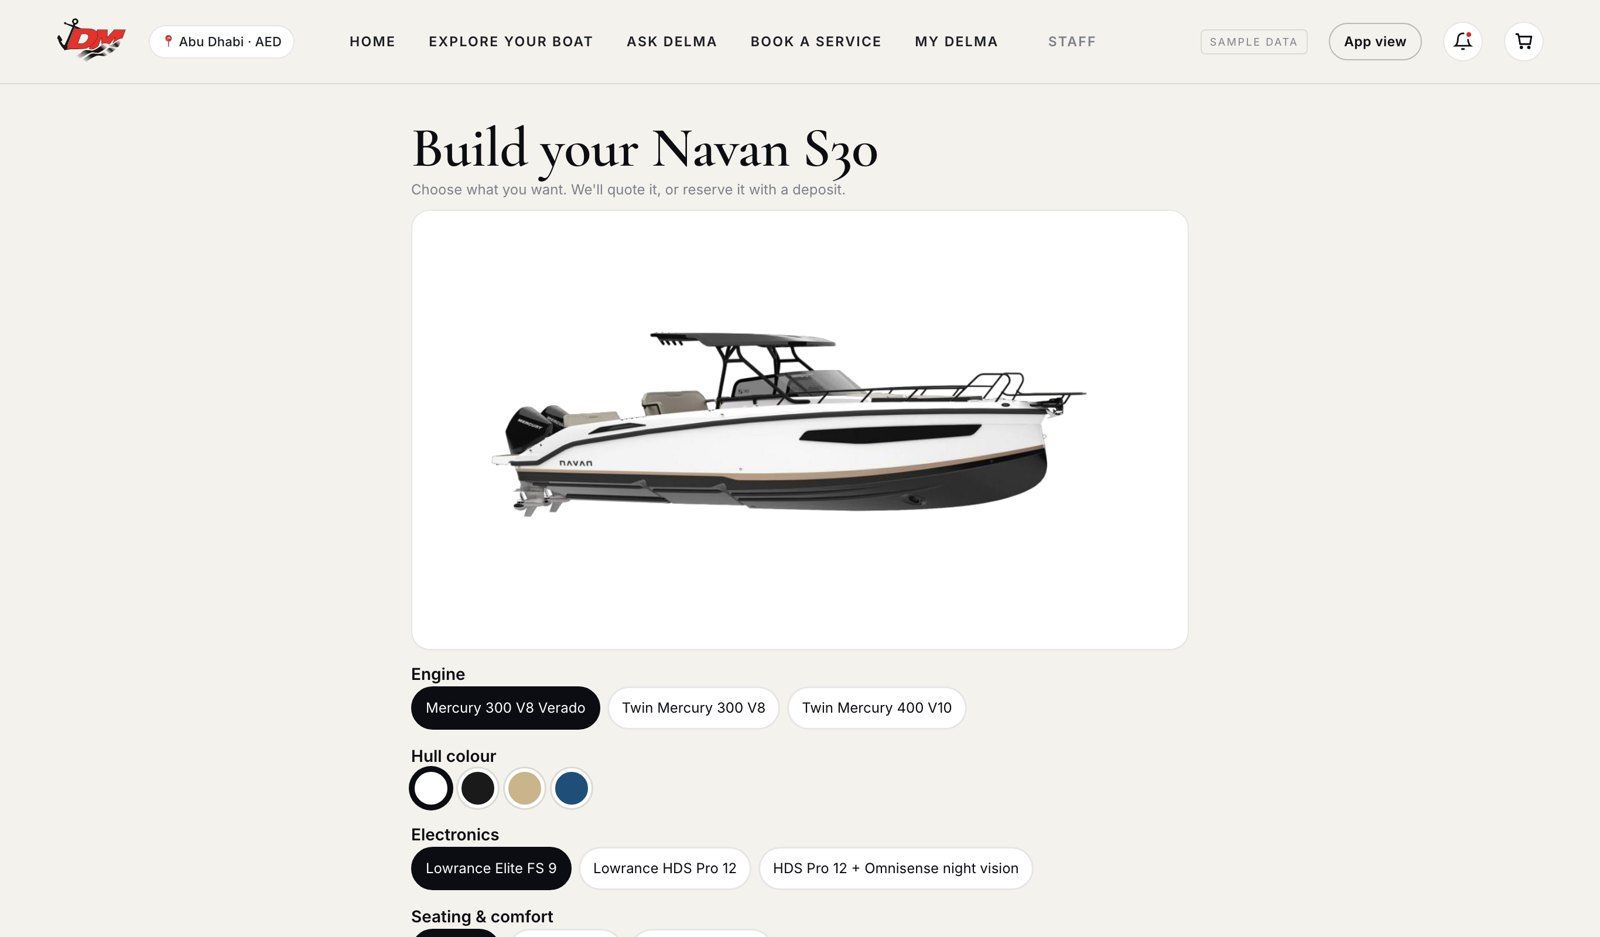
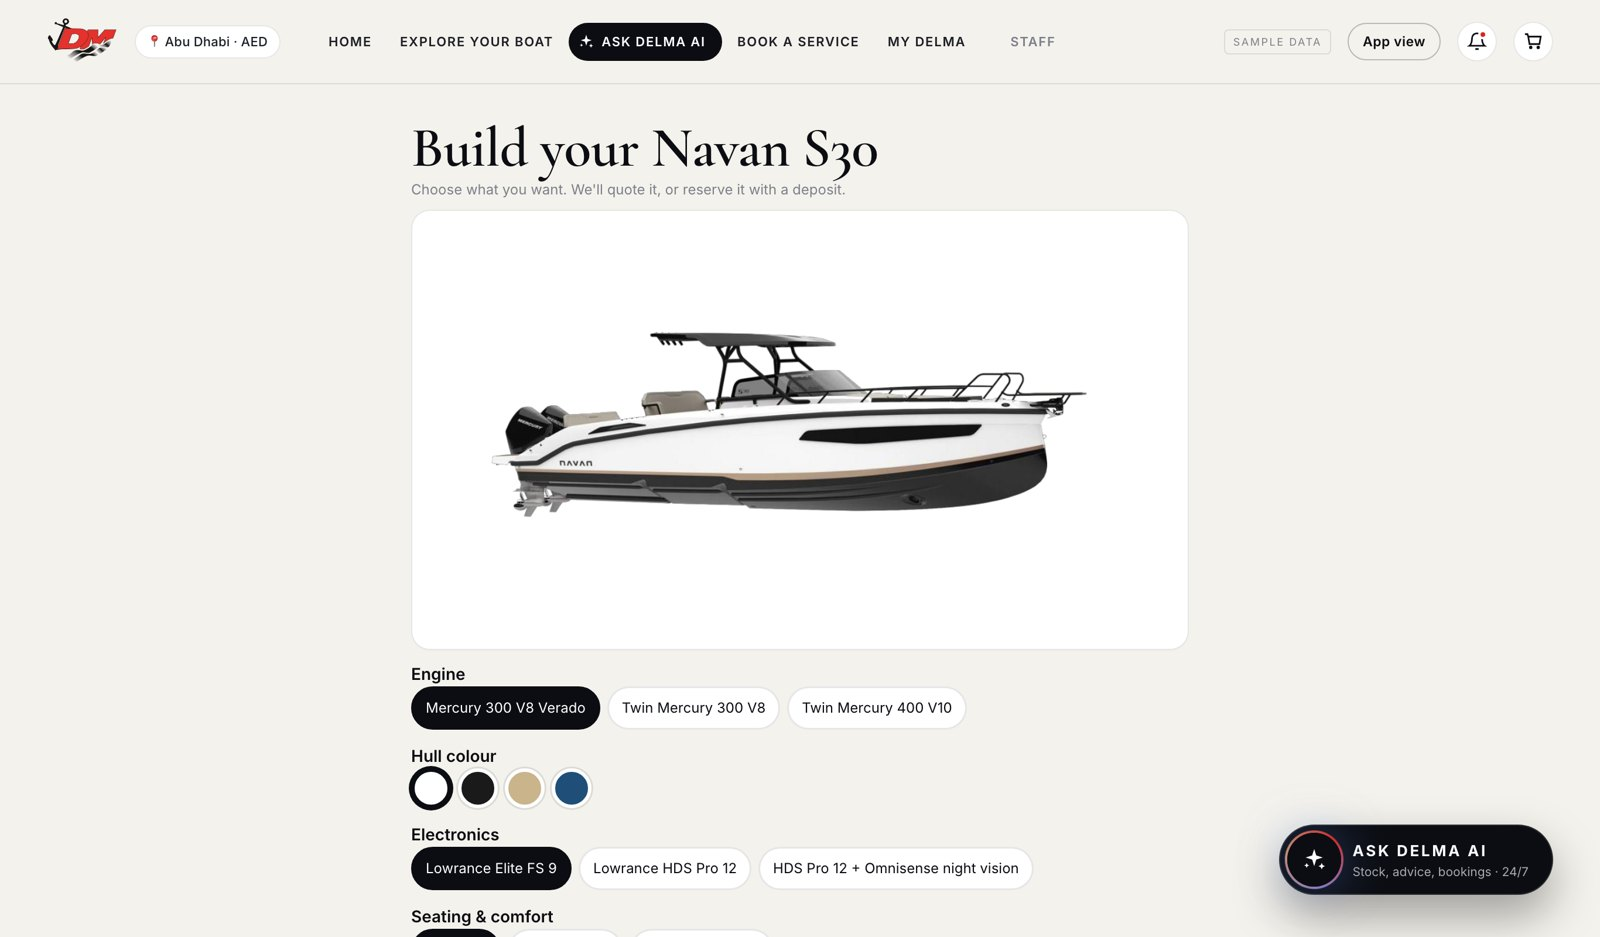
Ask Delma AI: hero ask bar, header pill, floating button

diff --git a/index.html b/index.html
@@ -30,7 +30,7 @@ body{font-family:Inter,system-ui,-apple-system,sans-serif;background:#111216;col
 .ico{width:34px;height:34px;border-radius:50%;display:grid;place-items:center;background:#fff;border:1px solid var(--line);position:relative;cursor:pointer}
 .ico svg{width:17px;height:17px}
 .ico .dot{position:absolute;top:6px;right:7px;width:8px;height:8px;border-radius:50%;background:var(--red);border:2px solid #fff}
-.sample{font-size:9px;letter-spacing:.14em;text-transform:uppercase;color:var(--mut);border:1px solid var(--line);padding:3px 7px;border-radius:4px}
+.sample{font-size:9px;letter-spacing:.14em;text-transform:uppercase;color:var(--mut);border:1px solid var(--line);padding:3px 7px;border-radius:4px;white-space:nowrap}
 /* screens */
 #view{flex:1;overflow:auto;-webkit-overflow-scrolling:touch;position:relative;scroll-behavior:smooth}
 .scr{display:none;padding:14px 14px 90px}
@@ -214,7 +214,7 @@ p{margin-bottom:8px}
  body.desk{display:block;padding:0;background:var(--bg)}
  body.desk #desk{display:none}
  body.desk #frame{max-width:none;height:100vh;border:0;border-radius:0;box-shadow:none}
- body.desk .top{padding:0 48px;height:72px;gap:18px;background:rgba(244,242,236,.85)}
+ body.desk .top{padding:0 40px;height:72px;gap:14px;background:rgba(244,242,236,.85)}
  body.desk .top img{height:40px}
  body.desk .hnav{display:flex;gap:2px;margin-left:16px}
  body.desk .nav{display:none}
@@ -258,8 +258,33 @@ p{margin-bottom:8px}
  body.desk .brands{gap:10px 26px}
  body.desk .brands span{font-size:18px}
 }
+/* AI entry points */
+@keyframes spin{to{transform:rotate(360deg)}}
+@keyframes glow{0%,100%{box-shadow:0 0 0 0 rgba(215,38,30,.35),0 0 40px rgba(110,155,255,.35)}50%{box-shadow:0 0 0 10px rgba(215,38,30,0),0 0 60px rgba(110,155,255,.55)}}
+.orb{position:relative;width:46px;height:46px;border-radius:50%;background:#0B0D12;display:grid;place-items:center;flex-shrink:0;animation:glow 3s ease-in-out infinite}
+.orb::before{content:"";position:absolute;inset:-2px;border-radius:50%;background:conic-gradient(from 0deg,#D7261E,#6E9BFF,#C9B88A,#D7261E);animation:spin 4s linear infinite;z-index:-1}
+.orb::after{content:"";position:absolute;inset:0;border-radius:50%;background:#0B0D12}
+.orb svg{width:22px;height:22px;position:relative;z-index:1;fill:#fff}
+.orb.sm{width:34px;height:34px;animation:none}.orb.sm svg{width:17px;height:17px}
+.aibar{display:flex;align-items:center;gap:12px;background:rgba(255,255,255,.14);backdrop-filter:blur(14px);border:1px solid rgba(255,255,255,.35);border-radius:999px;padding:8px 8px 8px 10px;cursor:pointer;margin-top:6px;max-width:560px;transition:.2s}
+.aibar:hover{background:rgba(255,255,255,.22)}
+.aibar .q{flex:1;min-width:0}
+.aibar .q b{display:block;font-size:10.5px;letter-spacing:.2em;text-transform:uppercase;color:#fff}
+.aibar .q span{display:block;font-size:13px;color:rgba(255,255,255,.85);white-space:nowrap;overflow:hidden;text-overflow:ellipsis;font-style:italic;font-family:'Cormorant Garamond',serif;font-size:16px}
+.aibar .go{width:36px;height:36px;border-radius:50%;background:#fff;color:var(--ink);display:grid;place-items:center;flex-shrink:0}
+.aibar .go svg{width:16px;height:16px}
+.aifab{position:absolute;right:14px;bottom:76px;z-index:18;display:flex;align-items:center;gap:10px;background:var(--ink);color:#fff;border-radius:999px;padding:5px 16px 5px 5px;cursor:pointer;box-shadow:0 18px 40px rgba(0,0,0,.35);border:1px solid rgba(255,255,255,.12)}
+.aifab b{font-size:12px;letter-spacing:.14em;text-transform:uppercase}
+.aifab small{display:block;font-size:10.5px;color:rgba(255,255,255,.65);letter-spacing:0;text-transform:none}
+.aifab.hide{display:none}
+body.desk .aifab{right:40px;bottom:36px;padding:6px 20px 6px 6px}
+body.desk .aifab b{font-size:13px}
+body.desk .aibar{max-width:640px;padding:10px 10px 10px 12px;margin-top:10px}
+body.desk .aibar .q span{font-size:19px}
+.hnav .ai{display:inline-flex;align-items:center;gap:6px;background:var(--ink);color:#fff!important;border-radius:999px;padding:7px 14px 7px 8px}
+.hnav .ai svg{width:14px;height:14px;fill:#fff}
 .hnav{display:none}
-.hnav span{padding:8px 13px;border-radius:999px;font-weight:600;font-size:11.5px;cursor:pointer;color:var(--ink2);letter-spacing:.1em;text-transform:uppercase}
+.hnav span{padding:8px 11px;border-radius:999px;font-weight:600;font-size:11px;cursor:pointer;color:var(--ink2);letter-spacing:.08em;text-transform:uppercase;white-space:nowrap}
 .hnav span.on{color:var(--red)}
 .viewtog{display:none}@media(min-width:900px){body.desk .viewtog{display:inline-flex}}
 </style>
@@ -276,7 +301,7 @@ p{margin-bottom:8px}
 <div class="top">
   <img src="assets/logo.png" alt="Delma Marine">
   <span class="pill" id="regionpill" onclick="toggleRegion()">📍 Abu Dhabi · AED</span>
-  <div class="hnav" id="hnav"><span data-s="home" onclick="go('home')">Home</span><span data-s="explore" onclick="go('explore')">Explore your boat</span><span data-s="ask" onclick="go('ask')">Ask Delma</span><span data-s="book" onclick="go('book')">Book a service</span><span data-s="mydelma" onclick="go('mydelma')">My Delma</span><span data-s="staff" onclick="go('staff')" style="margin-left:14px;color:var(--mut)">Staff</span></div><span class="sp"></span><span class="sample">Sample data</span><button class="btn s o viewtog" onclick="toggleView()" id="vtog">App view</button>
+  <div class="hnav" id="hnav"><span data-s="home" onclick="go('home')">Home</span><span data-s="explore" onclick="go('explore')">Explore your boat</span><span data-s="ask" class="ai" onclick="go('ask')"><svg viewBox="0 0 24 24"><path d="M12 2l1.9 6.1L20 10l-6.1 1.9L12 18l-1.9-6.1L4 10l6.1-1.9zM19 15l.9 2.1L22 18l-2.1.9L19 21l-.9-2.1L16 18l2.1-.9zM5 15l.7 1.6L7.3 17.3l-1.6.7L5 19.6l-.7-1.6L2.7 17.3l1.6-.7z"/></svg>Ask Delma AI</span><span data-s="book" onclick="go('book')">Book a service</span><span data-s="mydelma" onclick="go('mydelma')">My Delma</span><span data-s="staff" onclick="go('staff')" style="margin-left:14px;color:var(--mut)">Staff</span></div><span class="sp"></span><span class="sample">Sample data</span><button class="btn s o viewtog" onclick="toggleView()" id="vtog">App view</button>
   <div class="ico" onclick="go('offers')"><svg viewBox="0 0 24 24" fill="none" stroke="currentColor" stroke-width="2"><path d="M6 8a6 6 0 0112 0c0 7 3 9 3 9H3s3-2 3-9M10 21h4"/></svg><i class="dot"></i></div>
   <div class="ico" onclick="go('basket')"><svg viewBox="0 0 24 24" fill="none" stroke="currentColor" stroke-width="2"><path d="M6 6h15l-1.5 9h-12zM6 6L5 3H2M9 20a1 1 0 100-2 1 1 0 000 2zM18 20a1 1 0 100-2 1 1 0 000 2z"/></svg><i class="dot" id="bdot" style="display:none"></i></div>
 </div>
@@ -289,7 +314,8 @@ p{margin-bottom:8px}
     <div class="eyebrow">Delma Marine · Abu Dhabi · since 1978</div>
     <h1>The water<br>is <em>waiting.</em></h1>
     <p>Boats, engines and everything that belongs on board, chosen for the way you use the sea.</p>
-    <div class="row" style="flex-wrap:wrap"><button class="btn p" onclick="go('explore')">Explore your boat</button><button class="btn g" onclick="go('ask')">Ask Delma</button></div>
+    <div class="row" style="flex-wrap:wrap"><button class="btn p" onclick="go('explore')">Explore your boat</button><button class="btn g" onclick="go('book')">Book a service</button></div>
+    <div class="aibar" onclick="go('ask')"><div class="orb"><svg viewBox="0 0 24 24"><path d="M12 2l1.9 6.1L20 10l-6.1 1.9L12 18l-1.9-6.1L4 10l6.1-1.9zM19 15l.9 2.1L22 18l-2.1.9L19 21l-.9-2.1L16 18l2.1-.9zM5 15l.7 1.6L7.3 17.3l-1.6.7L5 19.6l-.7-1.6L2.7 17.3l1.6-.7z"/></svg></div><div class="q"><b>Ask Delma AI</b><span>"I have a 7 m boat and want to fish at night. What do I need?"</span></div><div class="go"><svg viewBox="0 0 24 24" fill="none" stroke="currentColor" stroke-width="2.2" stroke-linecap="round" stroke-linejoin="round"><path d="M5 12h14M13 6l6 6-6 6"/></svg></div></div>
   </div>
 
   <div class="eyebrow">Find your craft</div>
@@ -323,8 +349,8 @@ p{margin-bottom:8px}
 
   <div class="split" style="margin-top:22px">
     <div class="ph" style="background-image:url(assets/photos/helm.jpg)"></div>
-    <div><div class="eyebrow">Ask Delma</div><h2 style="margin-top:4px">Advice from the people who fit it.</h2><p class="sm mut">Tell Delma what you want to do and it puts the right boat, engine and kit together, from real stock, with a delivery date when something is on order.</p>
-      <div class="card" style="margin-top:10px"><div class="m u" style="max-width:100%;margin-bottom:8px">I have a Bayliner VR5 and want to use it for night fishing. What do I need?</div><div class="m a" style="max-width:100%">Three things: a Lowrance Elite FS 9 (in stock, Umm Al Nar), Hella deck and navigation lights, and a night-vision camera if you go far out. Shall I put them in your basket?</div><button class="btn k s" style="margin-top:10px" onclick="go('ask')">Ask Delma</button></div></div>
+    <div><div class="row"><div class="orb sm"><svg viewBox="0 0 24 24"><path d="M12 2l1.9 6.1L20 10l-6.1 1.9L12 18l-1.9-6.1L4 10l6.1-1.9zM19 15l.9 2.1L22 18l-2.1.9L19 21l-.9-2.1L16 18l2.1-.9zM5 15l.7 1.6L7.3 17.3l-1.6.7L5 19.6l-.7-1.6L2.7 17.3l1.6-.7z"/></svg></div><div class="eyebrow">Delma AI · your personal advisor</div></div><h2 style="margin-top:8px">Ask anything. Get the right setup, from real stock.</h2><p class="sm mut">Tell Delma what you want to do and it puts the right boat, engine and kit together, from real stock, with a delivery date when something is on order.</p>
+      <div class="card" style="margin-top:10px"><div class="m u" style="max-width:100%;margin-bottom:8px">I have a Bayliner VR5 and want to use it for night fishing. What do I need?</div><div class="m a" style="max-width:100%">Three things: a Lowrance Elite FS 9 (in stock, Umm Al Nar), Hella deck and navigation lights, and a night-vision camera if you go far out. Shall I put them in your basket?</div><button class="btn k s" style="margin-top:10px" onclick="go('ask')">Ask Delma AI</button></div></div>
   </div>
 
   <div class="hgrid"><div>
@@ -386,7 +412,7 @@ p{margin-bottom:8px}
 
 <!-- ASK -->
 <section class="scr narrow" id="s-ask">
-  <div class="row" style="margin-bottom:8px"><div style="width:38px;height:38px;border-radius:50%;background:var(--ink);display:grid;place-items:center"><img src="assets/logo.png" style="height:20px;filter:brightness(0) invert(1)"></div><div><b class="serif" style="font-size:18px">Delma</b><div class="xs mut">Replies in seconds · answers from Delma's own stock and prices</div></div></div>
+  <div class="row" style="margin-bottom:8px"><div class="orb"><svg viewBox="0 0 24 24"><path d="M12 2l1.9 6.1L20 10l-6.1 1.9L12 18l-1.9-6.1L4 10l6.1-1.9zM19 15l.9 2.1L22 18l-2.1.9L19 21l-.9-2.1L16 18l2.1-.9zM5 15l.7 1.6L7.3 17.3l-1.6.7L5 19.6l-.7-1.6L2.7 17.3l1.6-.7z"/></svg></div><div><b class="serif" style="font-size:18px">Delma AI</b><div class="xs mut">Replies in seconds · answers from Delma's own stock and prices</div></div></div>
   <div class="chat" id="chat"></div>
   <div class="chips" id="chips"></div>
   <div class="inp"><input id="askin" placeholder="Ask anything about boats, engines, parts…" onkeydown="if(event.key==='Enter')sendTyped()"><button class="btn p" onclick="sendTyped()">Send</button></div>
@@ -486,6 +512,7 @@ p{margin-bottom:8px}
   <div data-s="mydelma" onclick="go('mydelma')"><svg viewBox="0 0 24 24" fill="none" stroke="currentColor" stroke-width="2"><circle cx="12" cy="8" r="4"/><path d="M4 21a8 8 0 0116 0"/></svg>My Delma</div>
 </div>
 
+<div class="aifab" id="aifab" onclick="go('ask')"><div class="orb"><svg viewBox="0 0 24 24"><path d="M12 2l1.9 6.1L20 10l-6.1 1.9L12 18l-1.9-6.1L4 10l6.1-1.9zM19 15l.9 2.1L22 18l-2.1.9L19 21l-.9-2.1L16 18l2.1-.9zM5 15l.7 1.6L7.3 17.3l-1.6.7L5 19.6l-.7-1.6L2.7 17.3l1.6-.7z"/></svg></div><div><b>Ask Delma AI</b><small>Stock, advice, bookings · 24/7</small></div></div>
 <div class="dim" id="dim" onclick="closeSheet()"></div>
 <div class="sheet" id="sheet"></div>
 </div><!-- /frame -->
@@ -704,7 +731,7 @@ function closeSheet(){document.getElementById('sheet').classList.remove('on');do
 function paid(a){document.getElementById('sheet').innerHTML=`<div class="handle"></div><div style="text-align:center;padding:10px 0 4px"><div style="width:54px;height:54px;border-radius:50%;background:#E6F6EC;color:var(--ok);display:grid;place-items:center;margin:0 auto 10px;font-size:26px">✓</div><b style="font-size:16px">Paid ${a}</b><p class="sm mut" style="margin:4px 0 12px">Order DM-10482 confirmed · tax invoice emailed · we'll message you on WhatsApp with every update.</p><button class="btn k" onclick="closeSheet();basket=[];document.getElementById('bdot').style.display='none';renderBasket();go('mydelma')">Track it in My Delma</button></div>`}
 let tt;function toast(t){if(FAST)return;const e=document.getElementById('toast');e.textContent=t;e.classList.add('on');clearTimeout(tt);tt=setTimeout(()=>e.classList.remove('on'),2200)}
 function showPush(){const p=document.getElementById('push');p.classList.add('on');if(!FAST)setTimeout(()=>p.classList.remove('on'),4000)}
-function go(s){document.querySelectorAll('.scr').forEach(e=>e.classList.remove('on'));document.getElementById('s-'+s).classList.add('on');document.querySelectorAll('.nav div,.hnav span').forEach(d=>d.classList.toggle('on',d.dataset.s===s));document.getElementById('view').scrollTop=0;closeSheet();
+function go(s){document.querySelectorAll('.scr').forEach(e=>e.classList.remove('on'));document.getElementById('s-'+s).classList.add('on');document.querySelectorAll('.nav div,.hnav span').forEach(d=>d.classList.toggle('on',d.dataset.s===s));document.getElementById('view').scrollTop=0;closeSheet();document.getElementById('aifab').classList.toggle('hide',s==='ask'||s==='staff'||s==='tech');
  if(s==='explore')renderStage();if(s==='ask')startChat();if(s==='basket')renderBasket();if(s==='book')renderBook();if(s==='staff')renderStaff();if(s==='tech')renderTech();if(location.hash!=='#'+s)history.replaceState(null,'','#'+s)}
 window.addEventListener('hashchange',()=>{const h=location.hash.slice(1);if(document.getElementById('s-'+h))go(h)});
 function setView(v){document.body.classList.toggle('desk',v==='web');document.getElementById('vtog').textContent=v==='web'?'App view':'Website view';try{localStorage.setItem('dm-view',v)}catch(e){}}
